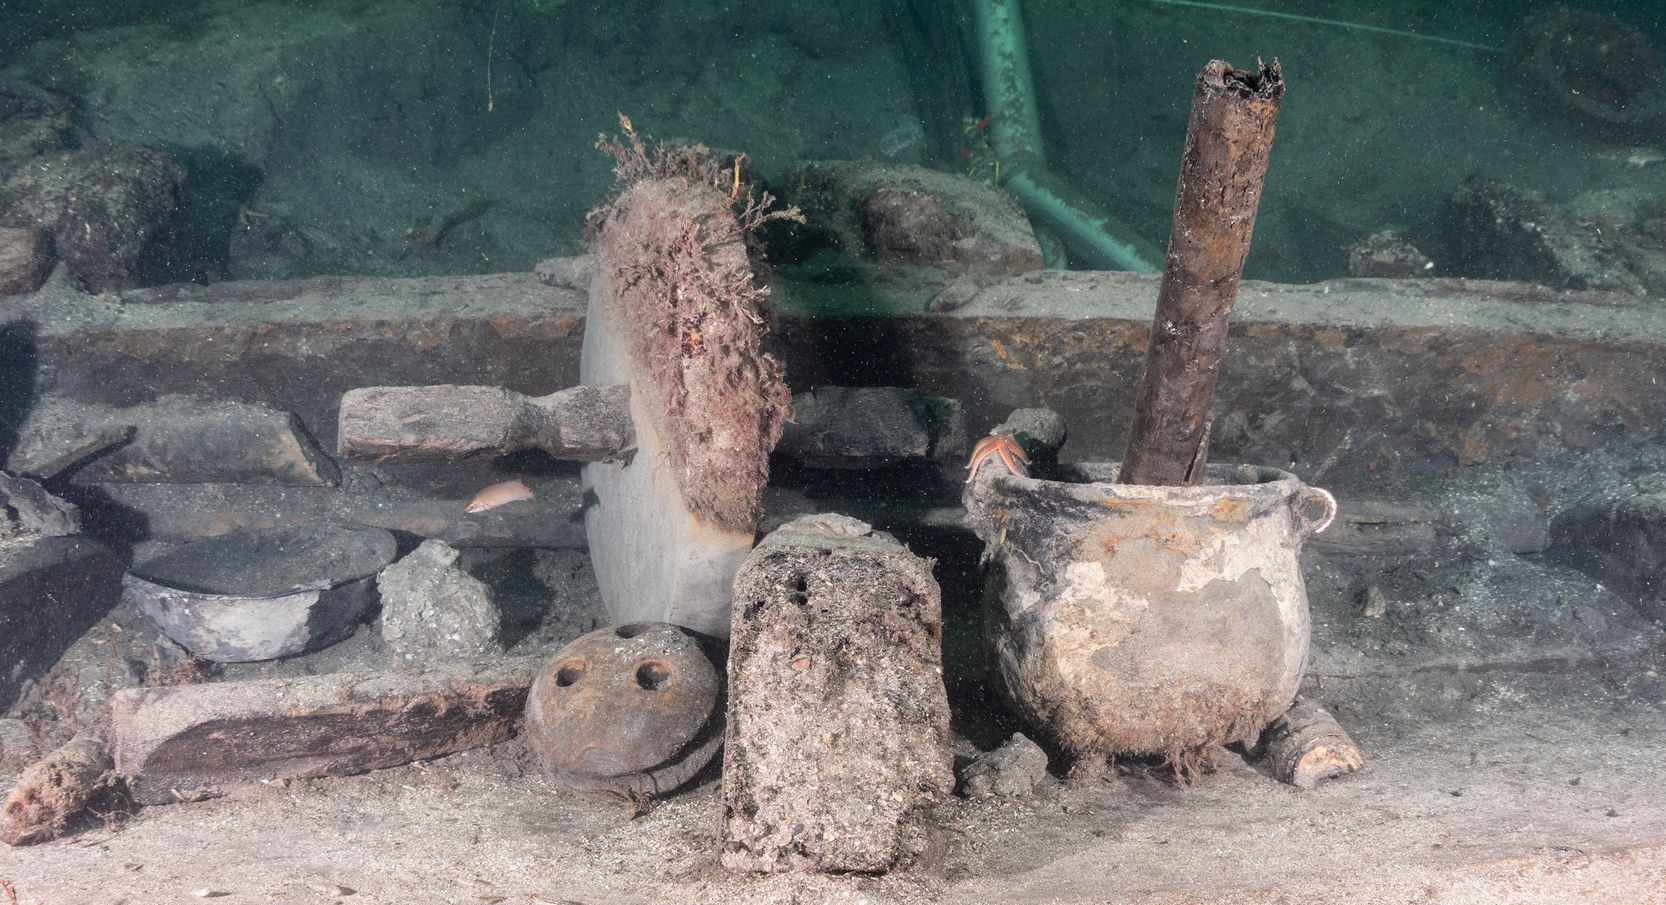
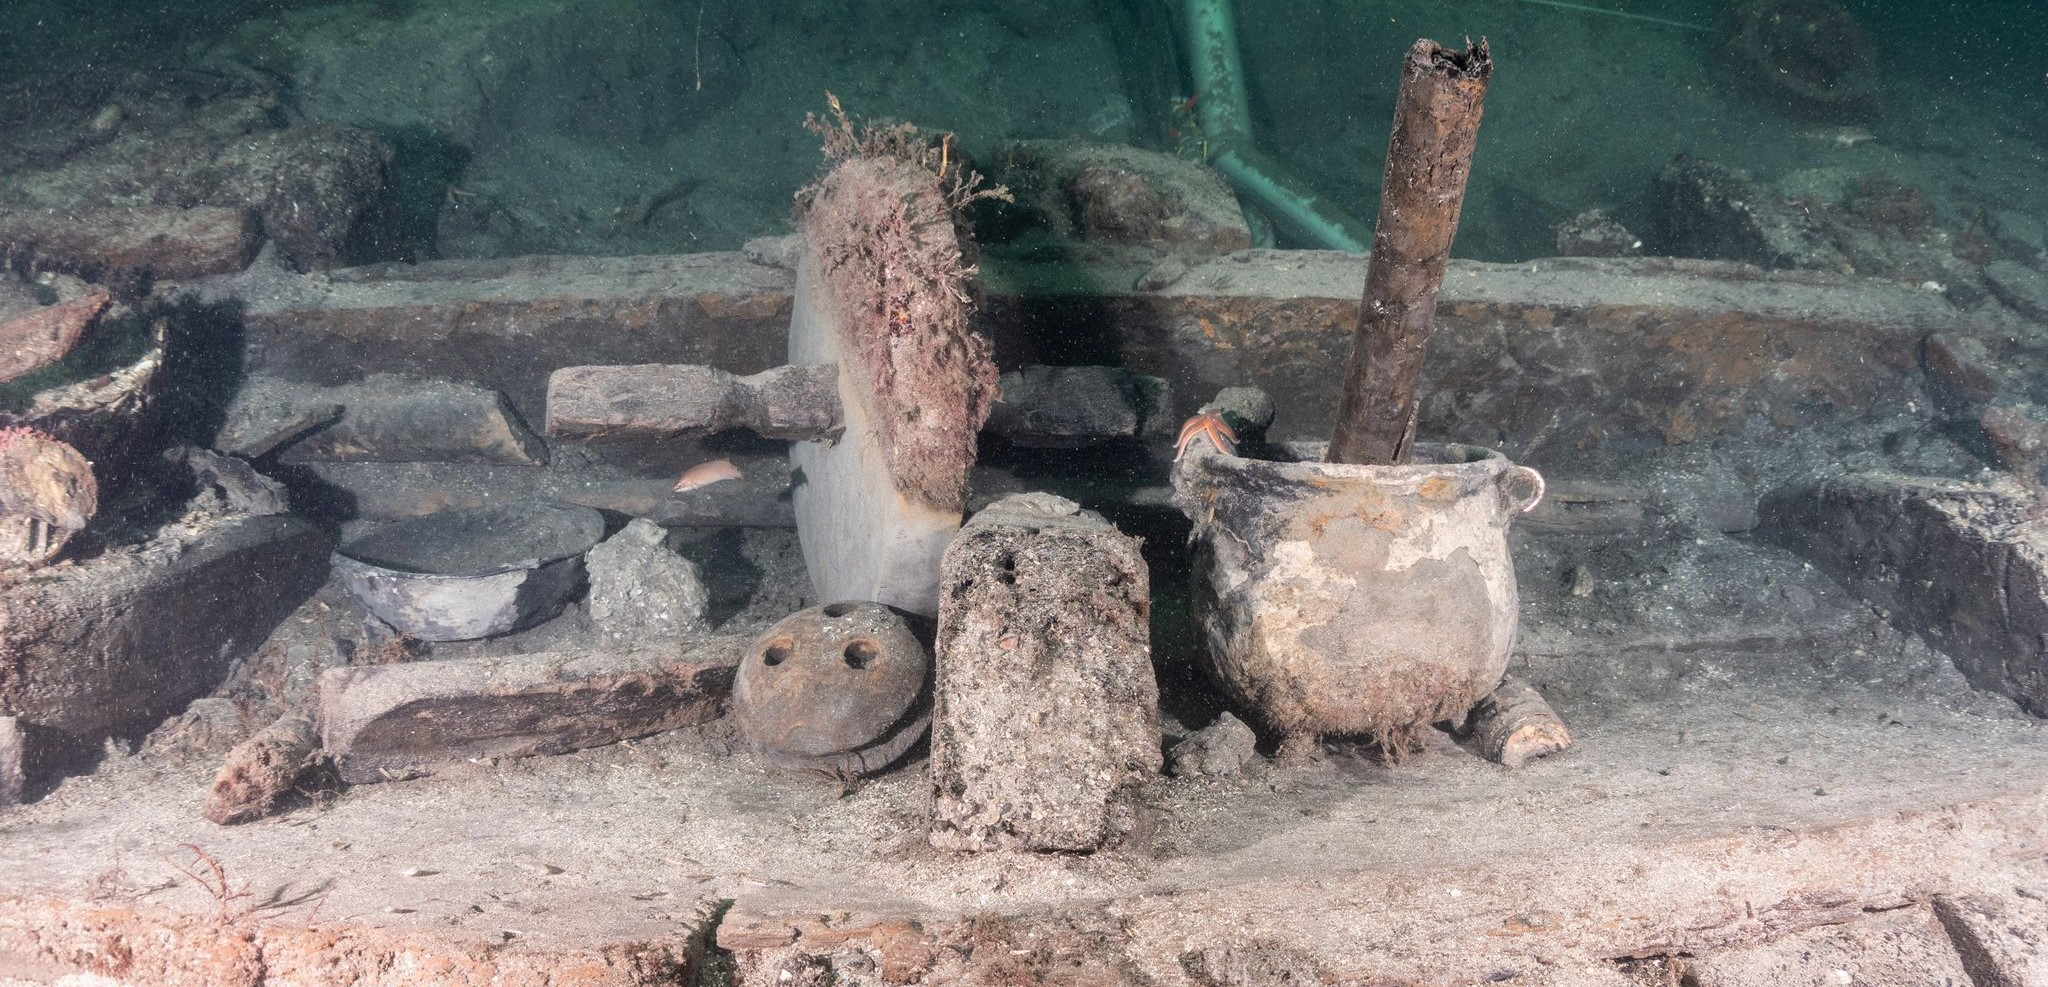
Add hero image

diff --git a/assets/css/style.css b/assets/css/style.css
@@ -52,9 +52,8 @@ header {
 }
 /* body */
 
-#wreck_image {
-    background: url(/assets/images/wreck_image_edit.jpg);
-    background-repeat: no-repeat;
+#hero_image {
+    background: url(/assets/images/wreck_image_edit.jpg) no-repeat;
     max-width: 100%;
     height: 600px;
 }

diff --git a/index.html b/index.html
@@ -36,7 +36,7 @@
             </ul>
         </nav>
     </header>
-    <div id="wreck_image">
+    <div id="hero_image">
         
     </div>
     <p>
